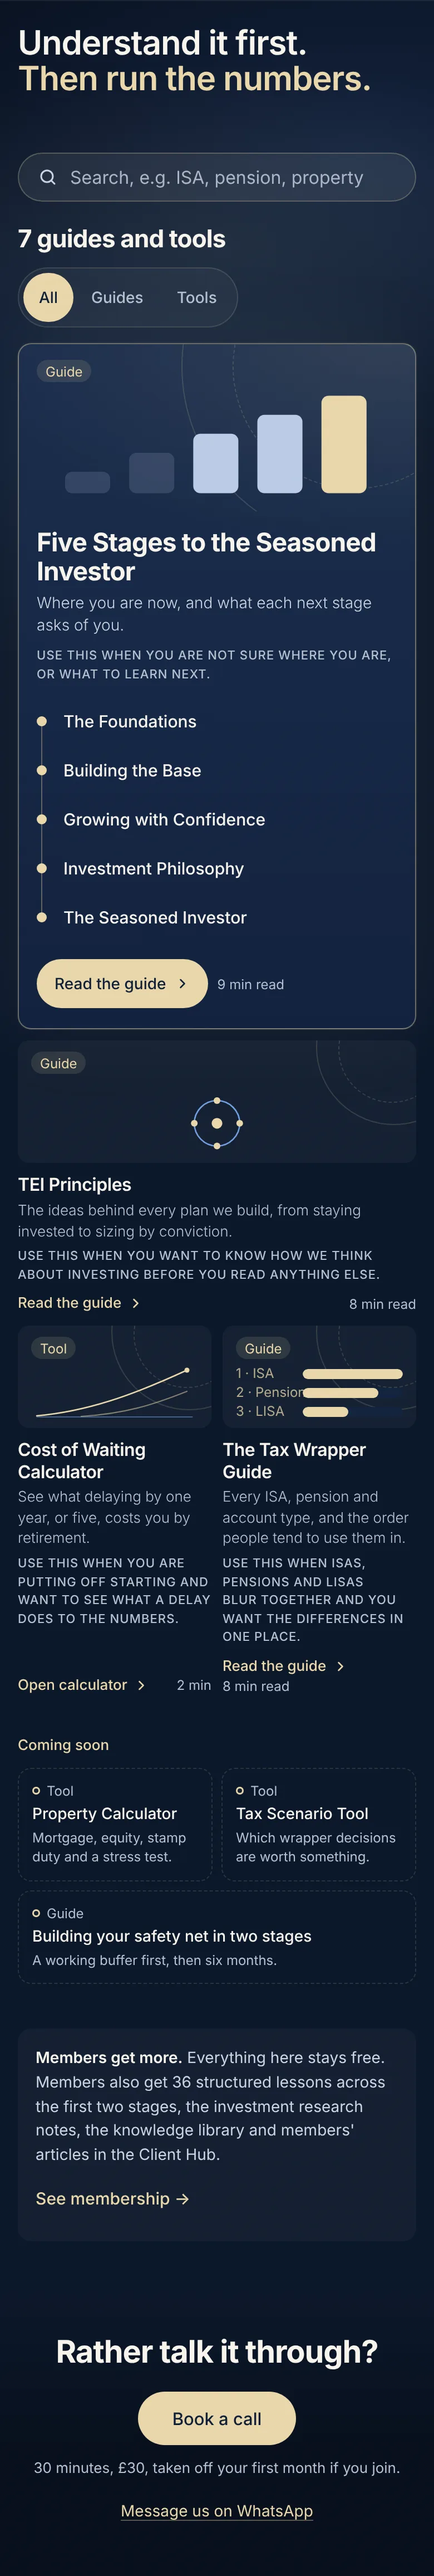
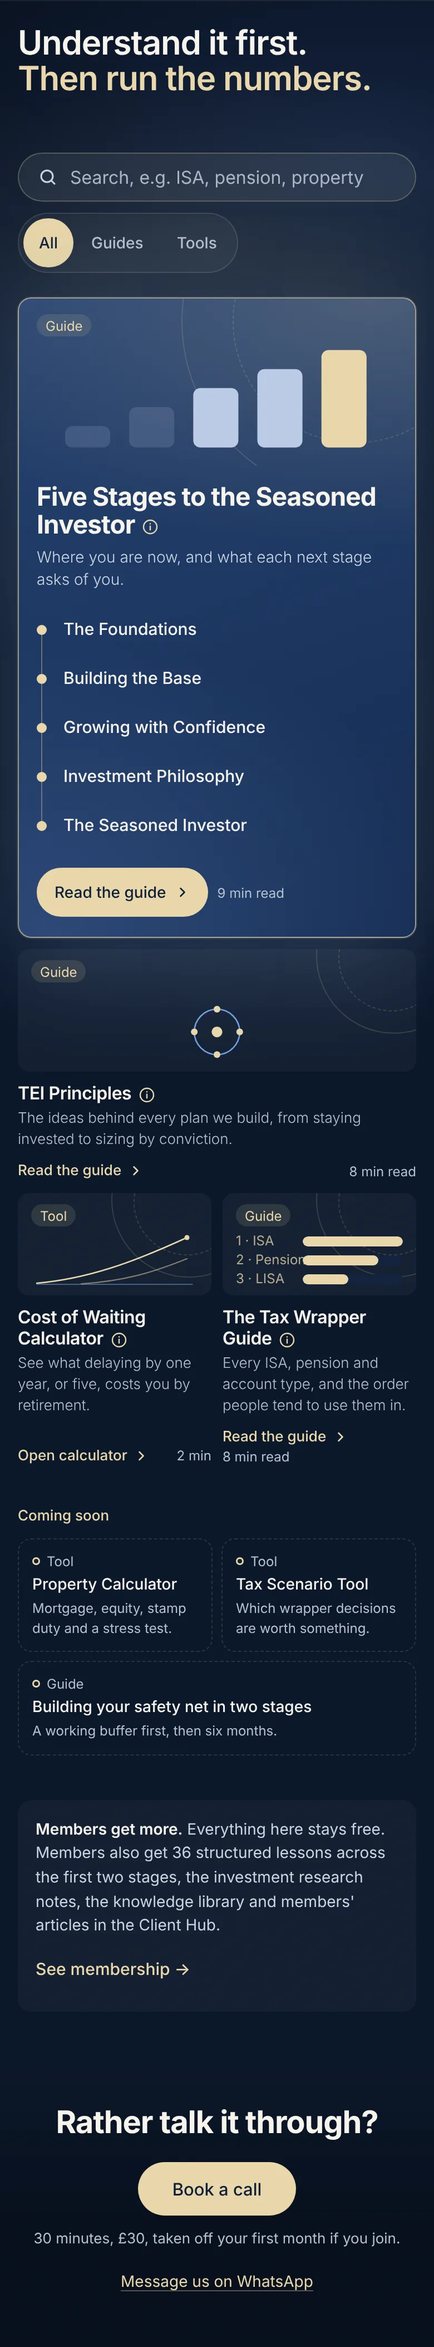
Guides & Tools: stronger feature, no count heading, Use this when as Articles, email row fix
- Feature card: a deeper blue lift with champagne and powder glows,
  kept on hover (public page; site-pages.css).
- The "N guides and tools" heading is now for screen readers only; the
  Guides / Tools toggle moves up beside the search (public). The Hub hides
  its count the same way.
- "Use this when" follows Articles' "Read this if": a small capitals
  label, then the sentence in normal case, from 861px. On phones it sits
  behind an i after the title (tap; hover with a mouse), one open at a
  time, Escape or a tap elsewhere closes it. Cards are now divs with the
  title link stretched over the card, so the i is a real button. With JS
  off the line stays in the card.
- Email row (all site pages): full bleed, so the page ground no longer
  shows either side of it on screens over 1760px (visible on Guides,
  whose ground is lighter); content keeps the 1760px column. The row
  wraps, so a sign-up message sits under the field instead of squeezing
  the row into three columns. No second focus box on the field.

Claude-Session: https://claude.ai/code/session_015wx5SztN7w1yRJ6BqCqNv4

diff --git a/guides.html b/guides.html
@@ -54,15 +54,13 @@
      gt markers are written by scripts/build-guides-tools.js from
      /assets/guides-tools.json; edit the JSON, not the cards. -->
 <section class="gt-sec gt-lib-sec" id="gt-lib-sec" aria-labelledby="gt-count">
-<!-- Search (the Guides / Tools toggle sits with the count) -->
+<!-- Search and the Guides / Tools toggle. The count is for screen readers only. -->
 <div class="gt-find">
 <label class="gt-search-wrap"><svg viewBox="0 0 24 24" aria-hidden="true" focusable="false"><circle cx="11" cy="11" r="7"></circle><path d="M20 20l-4-4"></path></svg><span class="gt-sr">Search guides and tools</span><input id="gt-search" class="gt-search" type="search" placeholder="Search, e.g. ISA, pension, property" autocomplete="off"></label>
-</div>
-<header class="gt-sh">
-<h2 id="gt-count" aria-live="polite"><!-- gt:count -->7 guides and tools<!-- /gt:count --></h2>
 <div class="gt-kinds" id="gt-kinds" role="group" aria-label="Show"><button type="button" class="gt-kind" data-v="All" aria-pressed="true">All</button><button type="button" class="gt-kind" data-v="Guides" aria-pressed="false">Guides</button><button type="button" class="gt-kind" data-v="Tools" aria-pressed="false">Tools</button></div>
-</header>
-<div class="gt-g" id="gt-lib"><!-- gt:library --><a class="gt-card is-feat g-feature is-lift is-guide has-steps gt-up press lift" href="/guides/stages.html" data-id="stages" data-kind="Guides" data-topics="Investing|Budgeting" data-w="8" data-n="12" data-d="0"><span class="gt-art is-guide" aria-hidden="true"><span class="gt-ring r1"></span><span class="gt-ring r2 t-s32"></span><svg class="gt-svg" viewBox="0 0 300 100" preserveAspectRatio="xMidYMax meet" focusable="false"><rect class="f-tile t-riseL" x="22" y="78" width="38" height="18" rx="6"/><rect class="f-tile t-riseL d1" x="76" y="62" width="38" height="34" rx="6"/><rect class="f-main t-riseL d2" x="130" y="46" width="38" height="50" rx="6"/><rect class="f-main t-riseL d3" x="184" y="30" width="38" height="66" rx="6"/><rect class="f-acc t-riseL d4" x="238" y="14" width="38" height="82" rx="6"/></svg></span><span class="gt-body"><span class="gt-tags"><span class="gt-tag is-guide">Guide</span></span><h3 class="gt-h">Five Stages to the Seasoned Investor</h3><span class="gt-p">Where you are now, and what each next stage asks of you.</span><span class="gt-use">Use this when you are not sure where you are, or what to learn next.</span><ol class="gt-steps"><li><i aria-hidden="true"></i>The Foundations</li><li><i aria-hidden="true"></i>Building the Base</li><li><i aria-hidden="true"></i>Growing with Confidence</li><li><i aria-hidden="true"></i>Investment Philosophy</li><li><i aria-hidden="true"></i>The Seasoned Investor</li></ol><span class="gt-foot"><span class="gt-btn">Read the guide<svg class="gt-chev" viewBox="0 0 24 24" aria-hidden="true" focusable="false"><path d="M9 6l6 6-6 6"/></svg></span><span class="gt-time">9 min read</span></span></span></a><a class="gt-card is-guide gt-up lift press" href="/guides/principles.html" data-id="principles" data-kind="Guides" data-topics="Investing" data-w="4" data-n="12" data-d="1"><span class="gt-art is-guide" aria-hidden="true"><span class="gt-ring r1"></span><span class="gt-ring r2 t-s32"></span><svg class="gt-svg" viewBox="0 0 300 100" preserveAspectRatio="xMidYMax meet" focusable="false"><circle class="s-pale w2" cx="150" cy="54" r="34"/><circle class="f-acc t-blink" cx="150" cy="54" r="8"/><circle class="f-main" cx="150" cy="20" r="5"/><circle class="f-main" cx="184" cy="54" r="5"/><circle class="f-main" cx="150" cy="88" r="5"/><circle class="f-main" cx="116" cy="54" r="5"/></svg></span><span class="gt-body"><span class="gt-tags"><span class="gt-tag is-guide">Guide</span></span><h3 class="gt-h">TEI Principles</h3><span class="gt-p">The ideas behind every plan we build, from staying invested to sizing by conviction.</span><span class="gt-use">Use this when you want to know how we think about investing before you read anything else.</span><span class="gt-foot"><span class="gt-cta">Read the guide<svg class="gt-chev" viewBox="0 0 24 24" aria-hidden="true" focusable="false"><path d="M9 6l6 6-6 6"/></svg></span><span class="gt-time">8 min read</span></span></span></a><a class="gt-card is-tool gt-up lift press" href="/guides/cost-of-waiting.html" data-id="cost-of-waiting" data-kind="Tools" data-topics="Investing|Pensions" data-w="6" data-n="6" data-d="2"><span class="gt-art is-tool" aria-hidden="true"><span class="gt-ring r1"></span><span class="gt-ring r2 t-s32"></span><svg class="gt-svg" viewBox="0 0 300 100" preserveAspectRatio="xMidYMax meet" focusable="false"><line class="s-pale" x1="10" y1="96" x2="290" y2="96"/><path class="s-main w3 t-draw2" d="M10 94 C 100 86, 180 58, 280 12"/><path class="s-main w2 dash o5 t-draw2 d2" d="M90 95 C 170 90, 220 74, 280 50"/><circle class="f-acc t-blink" cx="280" cy="12" r="4.5"/></svg></span><span class="gt-body"><span class="gt-tags"><span class="gt-tag is-tool">Tool</span></span><h3 class="gt-h">Cost of Waiting Calculator</h3><span class="gt-p">See what delaying by one year, or five, costs you by retirement.</span><span class="gt-use">Use this when you are putting off starting and want to see what a delay does to the numbers.</span><span class="gt-foot"><span class="gt-cta">Open calculator<svg class="gt-chev" viewBox="0 0 24 24" aria-hidden="true" focusable="false"><path d="M9 6l6 6-6 6"/></svg></span><span class="gt-time">2 min</span></span></span></a><a class="gt-card is-guide gt-up lift press" href="/guides/tax.html" data-id="tax" data-kind="Guides" data-topics="ISAs|Pensions" data-w="6" data-n="6" data-d="3"><span class="gt-art is-guide" aria-hidden="true"><span class="gt-ring r1"></span><span class="gt-ring r2 t-s32"></span><span class="gt-bars"><span class="gt-bar"><b>1 &middot; ISA</b><i><s class="b1 t-fillL"></s></i></span><span class="gt-bar"><b>2 &middot; Pension</b><i><s class="b2 t-fillL d2"></s></i></span><span class="gt-bar"><b>3 &middot; LISA</b><i><s class="b3 t-fillL d4"></s></i></span></span></span><span class="gt-body"><span class="gt-tags"><span class="gt-tag is-guide">Guide</span></span><h3 class="gt-h">The Tax Wrapper Guide</h3><span class="gt-p">Every ISA, pension and account type, and the order people tend to use them in.</span><span class="gt-use">Use this when ISAs, pensions and LISAs blur together and you want the differences in one place.</span><span class="gt-foot"><span class="gt-cta">Read the guide<svg class="gt-chev" viewBox="0 0 24 24" aria-hidden="true" focusable="false"><path d="M9 6l6 6-6 6"/></svg></span><span class="gt-time">8 min read</span></span></span></a><!-- /gt:library --></div>
+</div>
+<h2 id="gt-count" class="gt-sr" aria-live="polite"><!-- gt:count -->7 guides and tools<!-- /gt:count --></h2>
+<div class="gt-g" id="gt-lib"><!-- gt:library --><div class="gt-card is-feat g-feature is-lift is-guide has-steps gt-up press lift" data-id="stages" data-kind="Guides" data-topics="Investing|Budgeting" data-w="8" data-n="12" data-d="0"><span class="gt-art is-guide" aria-hidden="true"><span class="gt-ring r1"></span><span class="gt-ring r2 t-s32"></span><svg class="gt-svg" viewBox="0 0 300 100" preserveAspectRatio="xMidYMax meet" focusable="false"><rect class="f-tile t-riseL" x="22" y="78" width="38" height="18" rx="6"/><rect class="f-tile t-riseL d1" x="76" y="62" width="38" height="34" rx="6"/><rect class="f-main t-riseL d2" x="130" y="46" width="38" height="50" rx="6"/><rect class="f-main t-riseL d3" x="184" y="30" width="38" height="66" rx="6"/><rect class="f-acc t-riseL d4" x="238" y="14" width="38" height="82" rx="6"/></svg></span><span class="gt-body"><span class="gt-tags"><span class="gt-tag is-guide">Guide</span></span><h3 class="gt-h"><a class="gt-a" href="/guides/stages.html">Five Stages to the Seasoned Investor</a><button type="button" class="gt-info" aria-expanded="false" aria-controls="gt-pop-stages" aria-label="Use this when"><svg viewBox="0 0 24 24" aria-hidden="true" focusable="false"><circle cx="12" cy="12" r="9"></circle><path d="M12 11v5"></path><path d="M12 7.6v.2"></path></svg></button><span class="gt-pop" id="gt-pop-stages" hidden><span class="gt-use-k">Use this when</span> you are not sure where you are, or what to learn next.</span></h3><span class="gt-p">Where you are now, and what each next stage asks of you.</span><span class="gt-use"><span class="gt-use-k">Use this when</span><span class="gt-use-p">you are not sure where you are, or what to learn next.</span></span><ol class="gt-steps"><li><i aria-hidden="true"></i>The Foundations</li><li><i aria-hidden="true"></i>Building the Base</li><li><i aria-hidden="true"></i>Growing with Confidence</li><li><i aria-hidden="true"></i>Investment Philosophy</li><li><i aria-hidden="true"></i>The Seasoned Investor</li></ol><span class="gt-foot"><span class="gt-btn">Read the guide<svg class="gt-chev" viewBox="0 0 24 24" aria-hidden="true" focusable="false"><path d="M9 6l6 6-6 6"/></svg></span><span class="gt-time">9 min read</span></span></span></div><div class="gt-card is-guide gt-up lift press" data-id="principles" data-kind="Guides" data-topics="Investing" data-w="4" data-n="12" data-d="1"><span class="gt-art is-guide" aria-hidden="true"><span class="gt-ring r1"></span><span class="gt-ring r2 t-s32"></span><svg class="gt-svg" viewBox="0 0 300 100" preserveAspectRatio="xMidYMax meet" focusable="false"><circle class="s-pale w2" cx="150" cy="54" r="34"/><circle class="f-acc t-blink" cx="150" cy="54" r="8"/><circle class="f-main" cx="150" cy="20" r="5"/><circle class="f-main" cx="184" cy="54" r="5"/><circle class="f-main" cx="150" cy="88" r="5"/><circle class="f-main" cx="116" cy="54" r="5"/></svg></span><span class="gt-body"><span class="gt-tags"><span class="gt-tag is-guide">Guide</span></span><h3 class="gt-h"><a class="gt-a" href="/guides/principles.html">TEI Principles</a><button type="button" class="gt-info" aria-expanded="false" aria-controls="gt-pop-principles" aria-label="Use this when"><svg viewBox="0 0 24 24" aria-hidden="true" focusable="false"><circle cx="12" cy="12" r="9"></circle><path d="M12 11v5"></path><path d="M12 7.6v.2"></path></svg></button><span class="gt-pop" id="gt-pop-principles" hidden><span class="gt-use-k">Use this when</span> you want to know how we think about investing before you read anything else.</span></h3><span class="gt-p">The ideas behind every plan we build, from staying invested to sizing by conviction.</span><span class="gt-use"><span class="gt-use-k">Use this when</span><span class="gt-use-p">you want to know how we think about investing before you read anything else.</span></span><span class="gt-foot"><span class="gt-cta">Read the guide<svg class="gt-chev" viewBox="0 0 24 24" aria-hidden="true" focusable="false"><path d="M9 6l6 6-6 6"/></svg></span><span class="gt-time">8 min read</span></span></span></div><div class="gt-card is-tool gt-up lift press" data-id="cost-of-waiting" data-kind="Tools" data-topics="Investing|Pensions" data-w="6" data-n="6" data-d="2"><span class="gt-art is-tool" aria-hidden="true"><span class="gt-ring r1"></span><span class="gt-ring r2 t-s32"></span><svg class="gt-svg" viewBox="0 0 300 100" preserveAspectRatio="xMidYMax meet" focusable="false"><line class="s-pale" x1="10" y1="96" x2="290" y2="96"/><path class="s-main w3 t-draw2" d="M10 94 C 100 86, 180 58, 280 12"/><path class="s-main w2 dash o5 t-draw2 d2" d="M90 95 C 170 90, 220 74, 280 50"/><circle class="f-acc t-blink" cx="280" cy="12" r="4.5"/></svg></span><span class="gt-body"><span class="gt-tags"><span class="gt-tag is-tool">Tool</span></span><h3 class="gt-h"><a class="gt-a" href="/guides/cost-of-waiting.html">Cost of Waiting Calculator</a><button type="button" class="gt-info" aria-expanded="false" aria-controls="gt-pop-cost-of-waiting" aria-label="Use this when"><svg viewBox="0 0 24 24" aria-hidden="true" focusable="false"><circle cx="12" cy="12" r="9"></circle><path d="M12 11v5"></path><path d="M12 7.6v.2"></path></svg></button><span class="gt-pop" id="gt-pop-cost-of-waiting" hidden><span class="gt-use-k">Use this when</span> you are putting off starting and want to see what a delay does to the numbers.</span></h3><span class="gt-p">See what delaying by one year, or five, costs you by retirement.</span><span class="gt-use"><span class="gt-use-k">Use this when</span><span class="gt-use-p">you are putting off starting and want to see what a delay does to the numbers.</span></span><span class="gt-foot"><span class="gt-cta">Open calculator<svg class="gt-chev" viewBox="0 0 24 24" aria-hidden="true" focusable="false"><path d="M9 6l6 6-6 6"/></svg></span><span class="gt-time">2 min</span></span></span></div><div class="gt-card is-guide gt-up lift press" data-id="tax" data-kind="Guides" data-topics="ISAs|Pensions" data-w="6" data-n="6" data-d="3"><span class="gt-art is-guide" aria-hidden="true"><span class="gt-ring r1"></span><span class="gt-ring r2 t-s32"></span><span class="gt-bars"><span class="gt-bar"><b>1 &middot; ISA</b><i><s class="b1 t-fillL"></s></i></span><span class="gt-bar"><b>2 &middot; Pension</b><i><s class="b2 t-fillL d2"></s></i></span><span class="gt-bar"><b>3 &middot; LISA</b><i><s class="b3 t-fillL d4"></s></i></span></span></span><span class="gt-body"><span class="gt-tags"><span class="gt-tag is-guide">Guide</span></span><h3 class="gt-h"><a class="gt-a" href="/guides/tax.html">The Tax Wrapper Guide</a><button type="button" class="gt-info" aria-expanded="false" aria-controls="gt-pop-tax" aria-label="Use this when"><svg viewBox="0 0 24 24" aria-hidden="true" focusable="false"><circle cx="12" cy="12" r="9"></circle><path d="M12 11v5"></path><path d="M12 7.6v.2"></path></svg></button><span class="gt-pop" id="gt-pop-tax" hidden><span class="gt-use-k">Use this when</span> ISAs, pensions and LISAs blur together and you want the differences in one place.</span></h3><span class="gt-p">Every ISA, pension and account type, and the order people tend to use them in.</span><span class="gt-use"><span class="gt-use-k">Use this when</span><span class="gt-use-p">ISAs, pensions and LISAs blur together and you want the differences in one place.</span></span><span class="gt-foot"><span class="gt-cta">Read the guide<svg class="gt-chev" viewBox="0 0 24 24" aria-hidden="true" focusable="false"><path d="M9 6l6 6-6 6"/></svg></span><span class="gt-time">8 min read</span></span></span></div><!-- /gt:library --></div>
 <p class="gt-empty" id="gt-empty" hidden>Nothing matches that yet. Try another word, or <a href="/articles.html">search the articles</a>.</p>
 </section>
 

diff --git a/assets/guides-tools.js b/assets/guides-tools.js
@@ -100,8 +100,25 @@
   };
 
   /* ---------- Cards ---------- */
-  // "Use this when...": shown in full on every width, under the description.
-  function useWhen(it) { return it.useWhen ? '<span class="gt-use">' + esc(it.useWhen) + '</span>' : ''; }
+  // "Use this when...", as Articles' "Read this if": in full under the
+  // description from 861px (a small label, then the sentence); on phones it
+  // sits behind an i after the title, opened by a tap (or hover with a mouse).
+  // Cards are divs whose title link is stretched over the card, so the i can
+  // be a real button beside the title.
+  var INFO = '<svg viewBox="0 0 24 24" aria-hidden="true" focusable="false"><circle cx="12" cy="12" r="9"></circle><path d="M12 11v5"></path><path d="M12 7.6v.2"></path></svg>';
+  function useText(it) { return esc(String(it.useWhen || '').replace(/^Use this when\s+/i, '')); }
+  function useWhen(it) {
+    return it.useWhen ? '<span class="gt-use"><span class="gt-use-k">Use this when</span><span class="gt-use-p">' + useText(it) + '</span></span>' : '';
+  }
+  function info(it, mode) {
+    if (!it.useWhen) return '';
+    var id = 'gt-pop-' + it.id + (mode === 'hub' ? '-h' : '');
+    return '<button type="button" class="gt-info" aria-expanded="false" aria-controls="' + id + '" aria-label="Use this when">' + INFO + '</button>' +
+      '<span class="gt-pop" id="' + id + '" hidden><span class="gt-use-k">Use this when</span> ' + useText(it) + '</span>';
+  }
+  function head(it, mode, href) {
+    return '<h3 class="gt-h">' + (href ? '<a class="gt-a" href="' + esc(href) + '">' + esc(it.title) + '</a>' : esc(it.title)) + info(it, mode) + '</h3>';
+  }
   // The stage names as a step line (the Five Stages feature). A list inside
   // the card link is valid HTML; nothing in it is interactive.
   function steps(it) {
@@ -112,21 +129,20 @@
   // the section that glows).
   GT.lead = function (it, mode, w, d) {
     var live = it.status === 'live' && hrefFor(it, mode);
-    var tag = live ? 'a' : 'div';
-    return '<' + tag + ' class="gt-card is-feat g-feature is-lift ' + kindClass(it) + (it.steps ? ' has-steps' : '') + (it.members ? ' is-members' : '') + ' gt-up press' + (live ? ' lift" href="' + esc(hrefFor(it, mode)) + '"' : ' is-soon" aria-disabled="true"') +
+    return '<div class="gt-card is-feat g-feature is-lift ' + kindClass(it) + (it.steps ? ' has-steps' : '') + (it.members ? ' is-members' : '') + ' gt-up press' + (live ? ' lift"' : ' is-soon" aria-disabled="true"') +
       attrs(it) + ' data-w="' + w + '" data-n="12" data-d="' + d + '">' + art(it, true, mode) +
-      '<span class="gt-body">' + tags(it, mode) + '<h3 class="gt-h">' + esc(it.title) + '</h3><span class="gt-p">' + esc(it.desc) + '</span>' +
+      '<span class="gt-body">' + tags(it, mode) + head(it, mode, live ? hrefFor(it, mode) : null) + '<span class="gt-p">' + esc(it.desc) + '</span>' +
       useWhen(it) + steps(it) +
       '<span class="gt-foot"><span class="gt-btn">' + esc(it.cta) + (live ? CHEV : '') + '</span>' +
-      (live && it.time ? '<span class="gt-time">' + esc(it.time) + '</span>' : '') + '</span></span></' + tag + '>';
+      (live && it.time ? '<span class="gt-time">' + esc(it.time) + '</span>' : '') + '</span></span></div>';
   };
   // A live card: illustration panel on top, then the text.
   GT.tile = function (it, mode, lay, d) {
-    return '<a class="gt-card ' + kindClass(it) + ' gt-up lift press" href="' + esc(hrefFor(it, mode)) + '"' + attrs(it) +
+    return '<div class="gt-card ' + kindClass(it) + ' gt-up lift press"' + attrs(it) +
       ' data-w="' + lay.w + '" data-n="' + lay.n + '" data-d="' + d + '">' + art(it, false, mode) +
-      '<span class="gt-body">' + tags(it, mode) + '<h3 class="gt-h">' + esc(it.title) + '</h3><span class="gt-p">' + esc(it.desc) + '</span>' + useWhen(it) +
+      '<span class="gt-body">' + tags(it, mode) + head(it, mode, hrefFor(it, mode)) + '<span class="gt-p">' + esc(it.desc) + '</span>' + useWhen(it) +
       '<span class="gt-foot"><span class="gt-cta">' + esc(it.cta) + CHEV + '</span>' +
-      (it.time ? '<span class="gt-time">' + esc(it.time) + '</span>' : '') + '</span></span></a>';
+      (it.time ? '<span class="gt-time">' + esc(it.time) + '</span>' : '') + '</span></span></div>';
   };
   // A members' tool that is not live yet: the same card, quieter, not a link.
   GT.soonCard = function (it, mode, w, d) {
@@ -233,6 +249,44 @@
     try { show = new URLSearchParams(location.search).get('show'); } catch (e) {}
     if (show === 'Guides' || show === 'Tools') $('gt-kinds').querySelector('[data-v="' + show + '"]').click();
     page.classList.add('gt-ready');
+  }
+
+  /* The i ("Use this when" on phones), as on Articles: a tap or click opens
+     and closes it; hover opens it where there is hover; a click elsewhere or
+     Escape closes it. One open at a time. */
+  var openBtn = null;
+  function setInfo(b, open) {
+    var pop = $(b.getAttribute('aria-controls'));
+    if (!pop) return;
+    if (open && openBtn && openBtn !== b) setInfo(openBtn, false);
+    pop.hidden = !open;
+    b.setAttribute('aria-expanded', open ? 'true' : 'false');
+    openBtn = open ? b : openBtn === b ? null : openBtn;
+    if (!open) delete b.dataset.hov;
+  }
+  function closeInfo() { if (openBtn) setInfo(openBtn, false); openBtn = null; }
+  document.addEventListener('click', function (e) {
+    var b = e.target.closest && e.target.closest('.gt-info');
+    if (b) {
+      e.preventDefault();
+      if (b.dataset.hov) { delete b.dataset.hov; return; }
+      setInfo(b, b.getAttribute('aria-expanded') !== 'true');
+      return;
+    }
+    if (openBtn && !e.target.closest('.gt-pop')) closeInfo();
+  });
+  document.addEventListener('keydown', function (e) {
+    if (e.key === 'Escape' && openBtn) { var b = openBtn; closeInfo(); b.focus(); }
+  });
+  if (window.matchMedia && matchMedia('(hover: hover)').matches) {
+    document.addEventListener('mouseover', function (e) {
+      var b = e.target.closest && e.target.closest('.gt-info');
+      if (b && b.getAttribute('aria-expanded') !== 'true') { setInfo(b, true); b.dataset.hov = '1'; }
+    });
+    document.addEventListener('mouseout', function (e) {
+      var b = e.target.closest && e.target.closest('.gt-info');
+      if (b && b.dataset.hov && !b.contains(e.relatedTarget)) setInfo(b, false);
+    });
   }
 
   if (mode === 'hub') {

diff --git a/assets/guides-tools.css b/assets/guides-tools.css
@@ -96,6 +96,7 @@
 .gt-sh .gt-k + h2 { margin-top: 10px; }
 .gt-more { display: inline-flex; align-items: center; gap: 6px; min-height: 44px; font-size: 15px; font-weight: 500; color: var(--gt-accent); text-decoration: none; }
 .gt-more:hover { text-decoration: underline; }
+.gt-find .gt-kinds { margin-left: auto; }
 .gt-kinds { display: inline-flex; padding: 4px; gap: 2px; border-radius: 999px; background: var(--gt-tile); border: 1px solid var(--gt-line); box-shadow: var(--gt-chip-shadow); }
 .gt-kind { min-height: 44px; min-width: 72px; padding: 0 16px; border: 0; border-radius: 999px; font-family: inherit; font-size: 14px; font-weight: 500; cursor: pointer; color: var(--gt-muted); background: transparent; }
 .gt-kind[aria-pressed="true"] { color: var(--gt-btn-ink); background: var(--gt-btn); }
@@ -159,9 +160,18 @@
 .gt-foot { margin-top: auto; padding-top: 12px; display: flex; flex-wrap: wrap; align-items: center; justify-content: space-between; gap: 8px 16px; }
 .gt-cta { display: inline-flex; align-items: center; gap: 6px; font-size: 14px; font-weight: 500; color: var(--gt-accent); }
 .gt-time { font-family: var(--gt-mono); font-size: 11px; color: var(--gt-muted); white-space: nowrap; }
-/* "Use this when...": the full line on every width, under the description,
-   as a small capitals label (Inter, 11px, +0.05em). */
-.gt-use { font-family: var(--gt-label); font-size: 11px; font-weight: 500; line-height: 1.55; letter-spacing: .05em; text-transform: uppercase; color: var(--gt-muted); text-wrap: pretty; }
+/* The title is the card's link, stretched over the whole card. */
+.gt-a { color: inherit; text-decoration: none; }
+.gt-a::after { content: ""; position: absolute; inset: 0; z-index: 1; border-radius: 18px; }
+.gt .gt-a:focus-visible { outline: none; }
+.gt .gt-a:focus-visible::after { outline: 2px solid var(--gt-accent); outline-offset: -2px; }
+/* "Use this when...", as Articles' "Read this if": a small capitals label
+   (Inter, 11px, +0.05em), then the sentence in normal case. On phones it
+   moves behind the i after the title. */
+.gt-use { display: flex; flex-direction: column; gap: 4px; margin-top: 4px; }
+.gt-use-k { font-family: var(--gt-label); font-size: 11px; font-weight: 500; line-height: 1.45; letter-spacing: .05em; text-transform: uppercase; color: var(--gt-accent); }
+.gt-use-p { font-size: 14px; font-weight: 400; line-height: 1.5; color: var(--gt-ink); opacity: .86; text-wrap: pretty; }
+.gt-info, .gt-pop { display: none; }
 
 /* The featured card: the same card, larger, its picture beside the text */
 .gt-card.is-feat { flex-direction: row; min-height: 300px; }
@@ -209,6 +219,7 @@
 @media (max-width: 860px) {
   .gt-hero-in { padding-top: 22px; padding-bottom: 20px; }
   .gt-hero-h { font-size: 26px; letter-spacing: -0.035em; }
+  .gt-find .gt-kinds { margin-left: 0; }
   .gt-hero-p { font-size: 14.5px; }
   .gt-find { margin-top: 14px; gap: 10px; }
   .gt-search-wrap { flex: 1 1 100%; }
@@ -255,7 +266,15 @@
   .gt-foot { padding-top: 6px; gap: 2px 8px; }
   .gt-cta { font-size: 13px; }
   .gt-time { font-size: 10px; }
-  .gt-use { font-size: 11px; line-height: 1.5; }
+  /* "Use this when" behind the i (only once the script has run; with JS
+     off the line stays in the card) */
+  .gt-ready .gt-use { display: none; }
+  .gt-ready .gt-info { -webkit-tap-highlight-color: transparent; display: inline-flex; position: relative; z-index: 2; align-items: center; justify-content: center; width: 44px; height: 44px; margin: -14px -14px -14px -8px; padding: 0; border: 0; background: none; color: var(--gt-accent); cursor: pointer; vertical-align: middle; }
+  .gt-info svg { width: 16px; height: 16px; fill: none; stroke: currentColor; stroke-width: 1.8; stroke-linecap: round; }
+  .gt-info[aria-expanded="true"] svg { fill: color-mix(in srgb, var(--gt-accent) 18%, transparent); }
+  .gt-ready .gt-pop:not([hidden]) { position: absolute; z-index: 3; left: 10px; right: 10px; display: block; margin-top: 8px; padding: 12px; border-radius: 12px; background: var(--gt-pop-bg, var(--gt-tile)); border: 1px solid color-mix(in srgb, var(--gt-accent) 35%, transparent); font-family: inherit; font-size: 13px; font-weight: 400; line-height: 1.5; letter-spacing: 0; color: var(--gt-ink); text-wrap: pretty; box-shadow: 0 12px 32px rgba(0, 0, 0, .28); }
+  .gt-pop .gt-use-k { display: block; margin-bottom: 4px; }
+  .gt-card.is-feat .gt-pop .gt-use-k { font-size: 11px; }
   .gt-g > [data-n="12"]:not(.is-feat) .gt-art { height: 110px; }
   .gt-g > [data-n="12"]:not(.is-feat) .gt-p { -webkit-line-clamp: 2; }
   /* Coming soon: two a row, wrapping; nothing scrolls sideways */

diff --git a/assets/site-ground.css b/assets/site-ground.css
@@ -336,7 +336,9 @@ body.tei-ground .tei-ftr + footer .footer-logo-mark { color: var(--g-champ) !imp
 /* -- 6b. The email row, first row of the footer (About, Articles, Guides &
    Tools, Membership). Market updates; one outline Sign up on phones so Book a
    call stays the only filled pill near the end of the page. -- */
-body.tei-ground .tei-ftr-nl { box-sizing: border-box; width: 100%; max-width: 1760px; margin: 0 auto; padding: 28px clamp(32px, 4vw, 72px); display: flex; align-items: center; justify-content: space-between; gap: 32px; background: var(--g-deep); border-bottom: 1px solid rgba(232, 214, 168, .10); }
+/* Full bleed, so the row's ground meets the screen edge on every page; the
+   content keeps the 1760px column through the side padding. */
+body.tei-ground .tei-ftr-nl { box-sizing: border-box; width: 100%; margin: 0; padding: 28px max(clamp(32px, 4vw, 72px), calc((100% - 1760px) / 2 + clamp(32px, 4vw, 72px))); display: flex; flex-wrap: wrap; align-items: center; justify-content: space-between; gap: 0 32px; background: var(--g-deep); border-bottom: 1px solid rgba(232, 214, 168, .10); }
 .tei-ftr-nl > div p { margin: 0; }
 .tei-ftr-nl .tei-ftr-nl-soon { display: block; margin-bottom: 4px; font-size: 13px; font-weight: 500; letter-spacing: .02em; color: var(--g-champ); }
 .tei-ftr-nl > div p b { display: block; font-size: 17px; font-weight: 600; color: var(--g-ink); }
@@ -344,13 +346,16 @@ body.tei-ground .tei-ftr-nl { box-sizing: border-box; width: 100%; max-width: 17
 .tei-ftr-nl form:focus-within { border-color: rgba(232, 214, 168, .6); }
 .tei-ftr-nl input { flex: 1; min-width: 0; height: 100%; border: 0; background: none; padding: 0; font-family: inherit; font-size: 16px; color: var(--g-ink); outline: none; }
 .tei-ftr-nl input::placeholder { color: var(--g-muted); }
+/* The pill shows focus (focus-within); no second box on the field itself. */
+.tei-ftr-nl input:focus-visible { outline: none; }
 .tei-ftr-nl .g-btn { height: 44px; min-height: 0; padding: 0 22px; font-size: 15px; box-shadow: none; }
-.tei-ftr-nl .g-msg { flex-basis: 100%; margin: 8px 0 0; font-size: 13px; color: var(--g-muted); }
+.tei-ftr-nl .g-msg { flex-basis: 100%; margin: 8px 0 0; font-size: 13px; text-align: right; color: var(--g-muted); }
 .tei-ftr-nl .g-msg:empty { display: none; }
 .tei-ftr-nl .g-msg.is-error { color: var(--g-warm); }
 @media (max-width: 860px) {
   body.tei-ground .tei-ftr-nl { display: block; padding: 24px 16px 20px; border-top: 1px solid rgba(232, 214, 168, .08); border-bottom: 0; }
   .tei-ftr-nl .tei-ftr-nl-soon { font-size: 12.5px; margin-bottom: 2px; }
+  .tei-ftr-nl .g-msg { text-align: left; }
   .tei-ftr-nl > div p b { margin: 0; font-size: 15px; font-weight: 500; }
   .tei-ftr-nl form { height: 52px; margin-top: 12px; padding: 3px 3px 3px 18px; border-color: rgba(232, 214, 168, .18); background: rgba(255, 255, 255, .02); }
   .tei-ftr-nl .g-btn { padding: 0 18px; font-size: 14.5px; background: transparent; color: var(--g-champ); border: 1px solid rgba(232, 214, 168, .35); }

diff --git a/assets/site-pages.css b/assets/site-pages.css
@@ -432,6 +432,15 @@
   .tei-ground .gt-card:hover .gt-h { color: var(--g-champ); }
 }
 .tei-ground .gt-sc { background: transparent; }
+/* The Five Stages feature (Stage 2, 20 Nov 2026): a stronger lift than the
+   shared one, a deeper blue with a champagne and a powder glow, kept on
+   hover. The "Use this when" pop-up sits on the lifted blue. */
+.tei-ground [data-gt-mode="public"] { --gt-pop-bg: #1A2C4A; }
+.tei-ground [data-gt-mode="public"] .gt-card.is-feat.is-lift {
+  background: radial-gradient(640px 320px at 88% 0%, rgba(232, 214, 168, .20), transparent 70%), radial-gradient(560px 380px at 8% 100%, rgba(120, 160, 230, .22), transparent 70%), linear-gradient(160deg, #24406E, #142A4F);
+  border-color: rgba(232, 214, 168, .60);
+  box-shadow: 0 0 0 1px rgba(232, 214, 168, .10), 0 0 120px rgba(232, 214, 168, .16), 0 28px 90px rgba(36, 64, 110, .50);
+}
 @media (max-width: 860px) {
   .tei-ground .gt-find { margin-bottom: 22px; }
   .tei-ground .gt-sh h2 { font-size: 22px; }

diff --git a/hub/guides.html b/hub/guides.html
@@ -45,7 +45,7 @@
 
 <section class="gt-sec gt-lib-sec" id="gt-lib-sec" aria-labelledby="gt-count">
 <header class="gt-sh">
-<h2 id="gt-count" aria-live="polite">Guides and tools</h2>
+<h2 id="gt-count" class="gt-sr" aria-live="polite">Guides and tools</h2>
 <div class="gt-kinds" id="gt-kinds" role="group" aria-label="Show"><button type="button" class="gt-kind" data-v="All" aria-pressed="true">All</button><button type="button" class="gt-kind" data-v="Guides" aria-pressed="false">Guides</button><button type="button" class="gt-kind" data-v="Tools" aria-pressed="false">Tools</button></div>
 </header>
 <div class="gt-g" id="gt-lib"></div>
